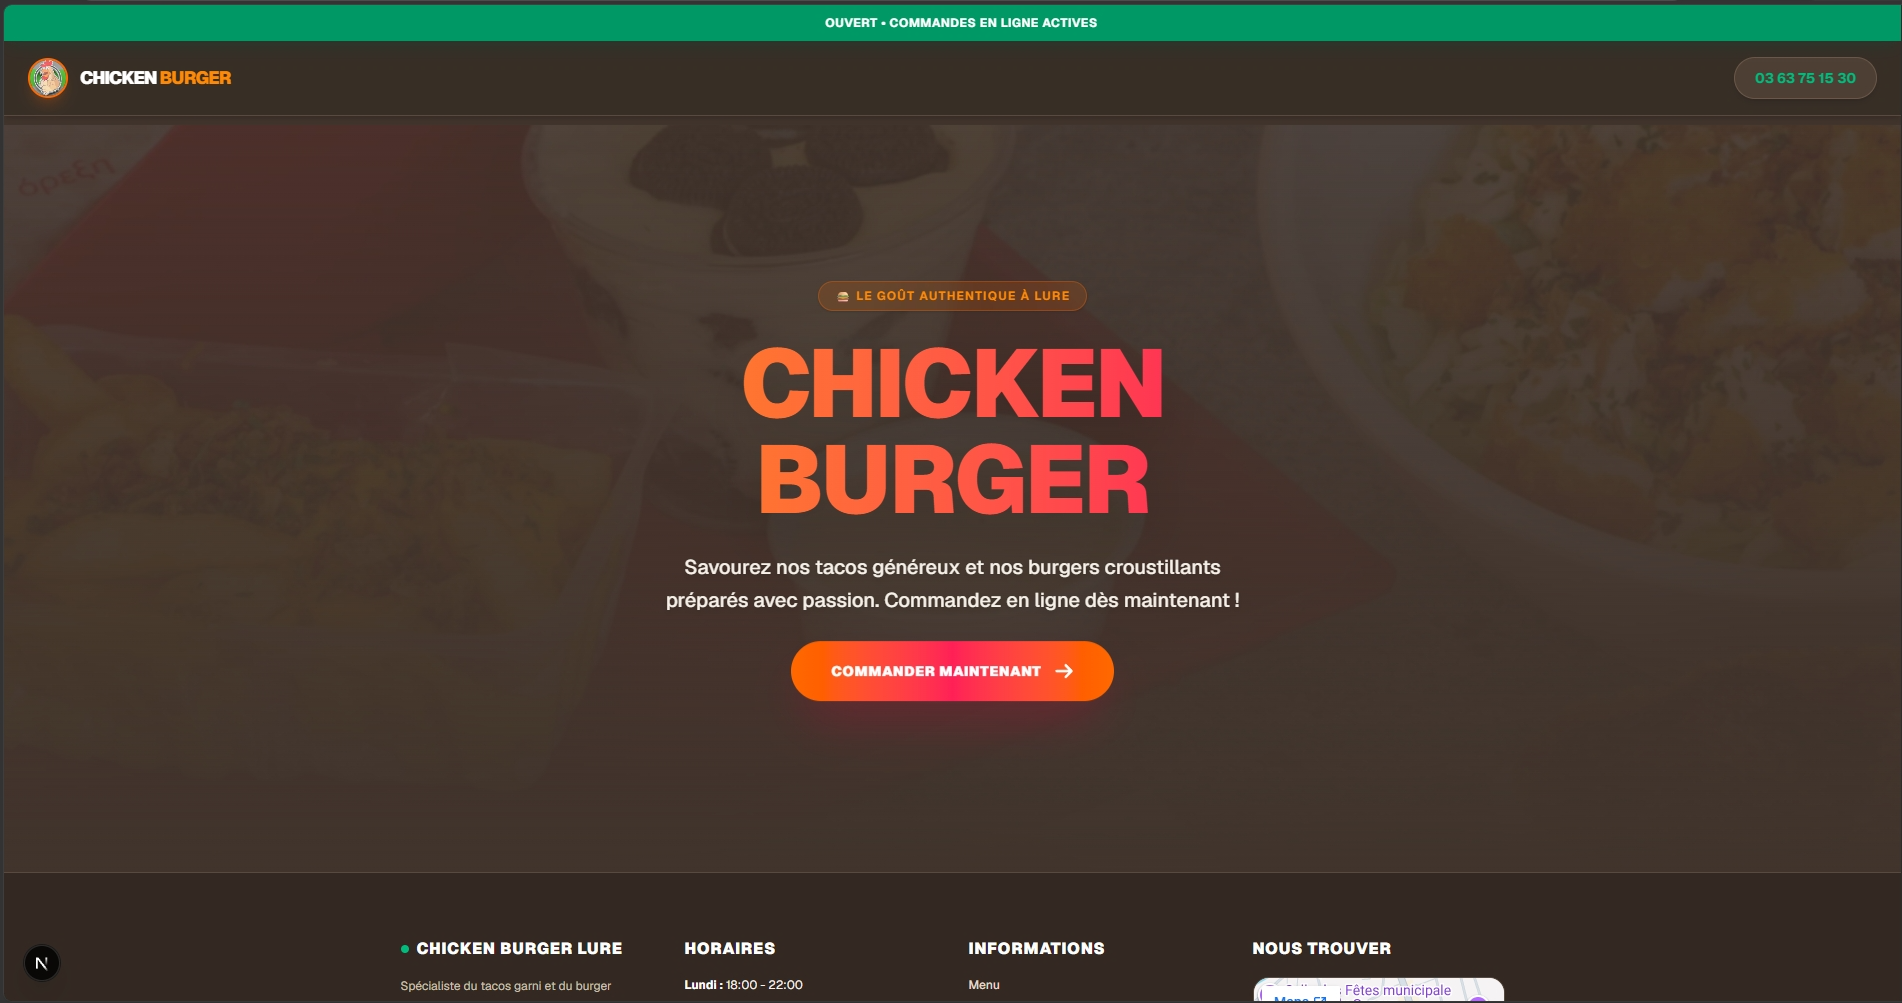
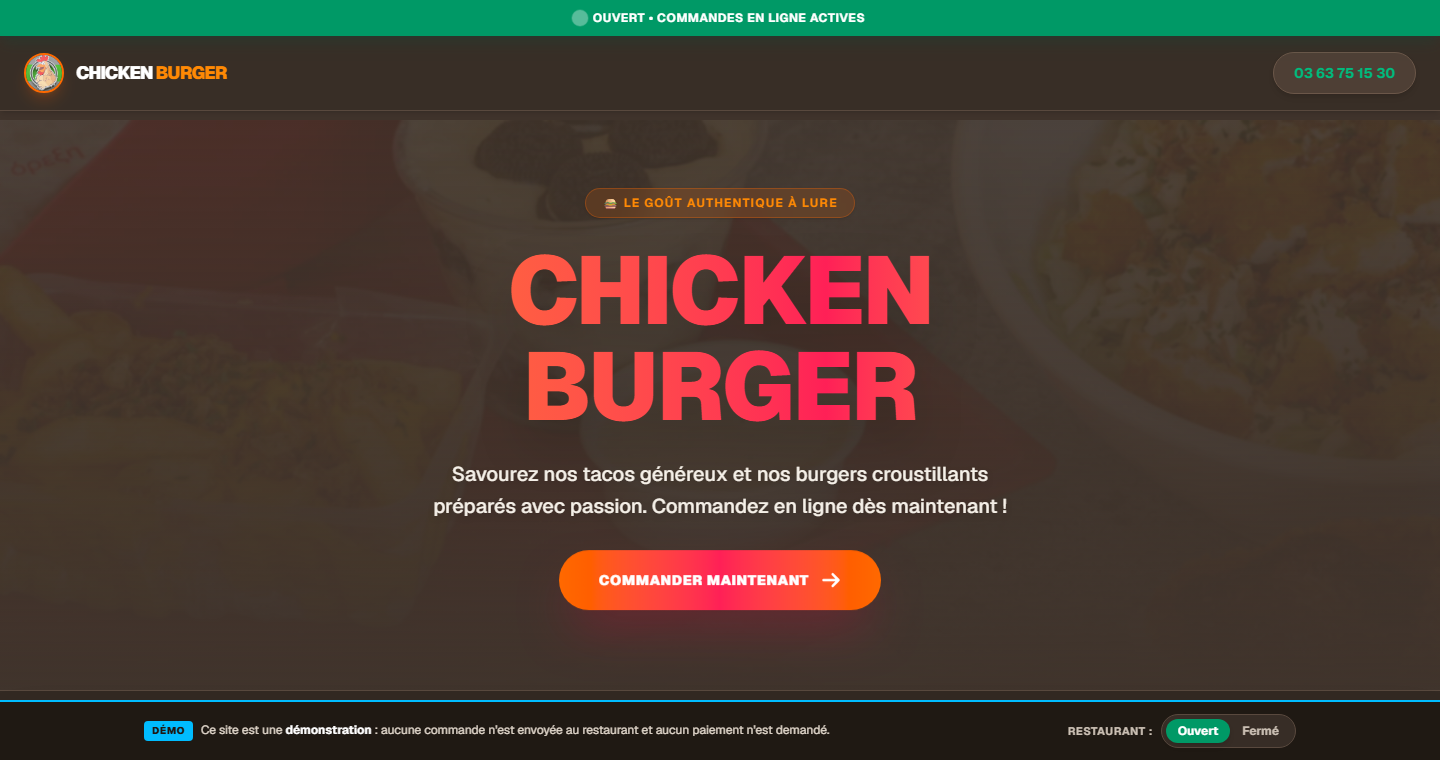
Ajout du lien et de l'aperçu de la démo Chicken Burger
- Bouton "Accéder au site" vers la démo https://studiopixeldesigner.github.io/demo.chickenburger/
- Nouvelle capture de la démo (images_sites/chickenburger.png, 1440x760, 443 Ko au lieu de 1,5 Mo)
  affichée nette en fond de la carte, zoom léger au survol
- Suppression du texte "[EN COURS DE DÉPLOIEMENT...] / CHICKEN BURGER" et du voile bleu, comme pour Smart Repare

Changed region(s): [[0.3125, 0.2421, 0.6875, 0.8171], [0.0, 0.9079, 1.0, 1.0], [0.0, 0.0, 1.0, 0.1211]]

diff --git a/index.html b/index.html
@@ -406,13 +406,9 @@
                     <div class="w-full h-full bg-blue-500/30 transform rotate-45 translate-x-5 -translate-y-5 group-hover:bg-blue-400 transition-colors"></div>
                 </div>
                 <div class="h-64 bg-slate-950 relative overflow-hidden flex items-center justify-center border-b border-slate-800">
+                    <!-- IMAGE CHICKEN BURGER SITE -->
+                    <img src="images_sites/chickenburger.png" alt="Aperçu du site Chicken Burger" loading="lazy" class="absolute inset-0 w-full h-full object-cover object-top group-hover:scale-105 transition-transform duration-700">
                     <div class="w-full h-1 bg-blue-400/80 shadow-[0_0_15px_#3b82f6] absolute top-0 animate-[scan_2.5s_ease-in-out_infinite] pointer-events-none"></div>
-                    <div class="text-center font-mono transform group-hover:scale-110 transition-transform duration-300 relative z-10">
-                        <span class="text-cyan-400 text-[10px] block mb-1 tracking-widest animate-pulse">[EN COURS DE DÉPLOIEMENT...]</span>
-                        <span class="text-white text-lg font-bold tracking-widest uppercase">CHICKEN BURGER</span>
-                    </div>
-                    <!-- IMAGE CHICKEN BURGER SITE-->
-                    <div class="absolute inset-0 bg-blue-950/40 group-hover:opacity-0 transition-opacity"></div>
                 </div>
                 <div class="p-8 flex flex-col flex-grow">
                     <div class="flex items-center justify-between mb-4">
@@ -421,7 +417,7 @@
                     </div>
                     <h3 class="text-xl font-bold uppercase mb-2 group-hover:text-blue-400 transition-colors">CHICKEN BURGER</h3>
                     <p class="text-slate-400 text-xs font-light mb-8 leading-relaxed flex-grow">Site vitrine gourmand doté d'un catalogue dynamique et d'un back-office de gestion simplifié.</p>
-                    <a href="https://chicken-burger.fr" target="_blank" class="inline-flex items-center justify-between text-xs font-bold tracking-widest uppercase text-blue-400 group-hover:text-slate-950 transition-all bg-blue-500/5 group-hover:bg-blue-400 px-4 py-3 border border-blue-500/30">
+                    <a href="https://studiopixeldesigner.github.io/demo.chickenburger/" target="_blank" class="inline-flex items-center justify-between text-xs font-bold tracking-widest uppercase text-blue-400 group-hover:text-slate-950 transition-all bg-blue-500/5 group-hover:bg-blue-400 px-4 py-3 border border-blue-500/30">
                         <span>Accéder au site</span>
                         <span class="group-hover:translate-x-1.5 transition-transform">→</span>
                     </a>
